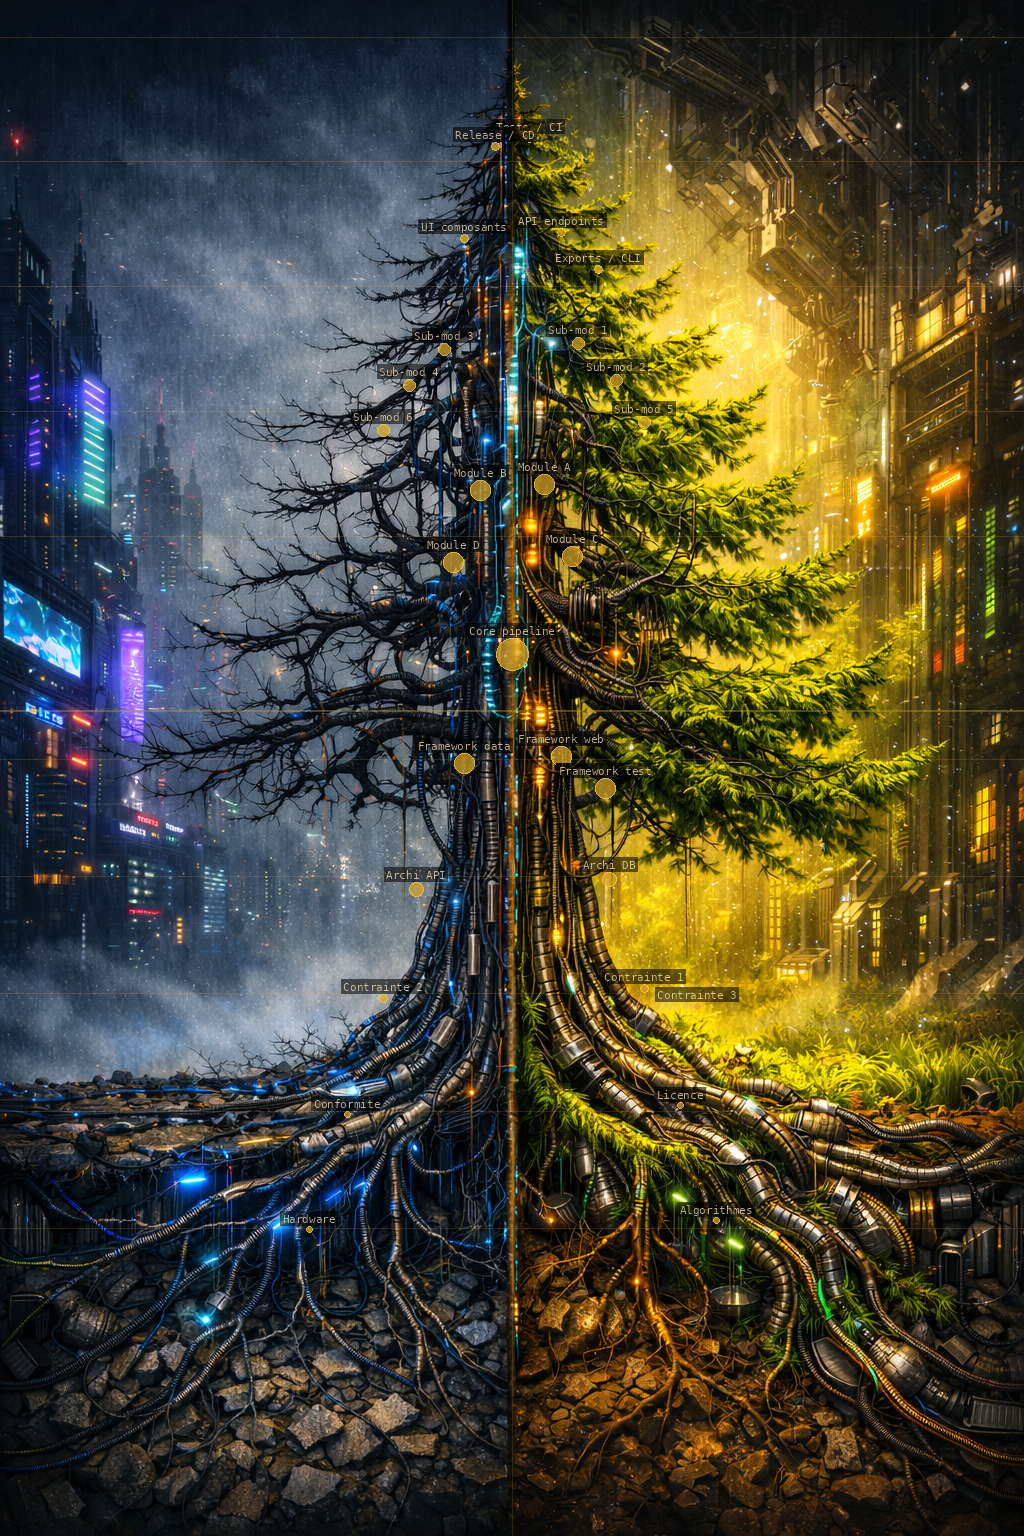
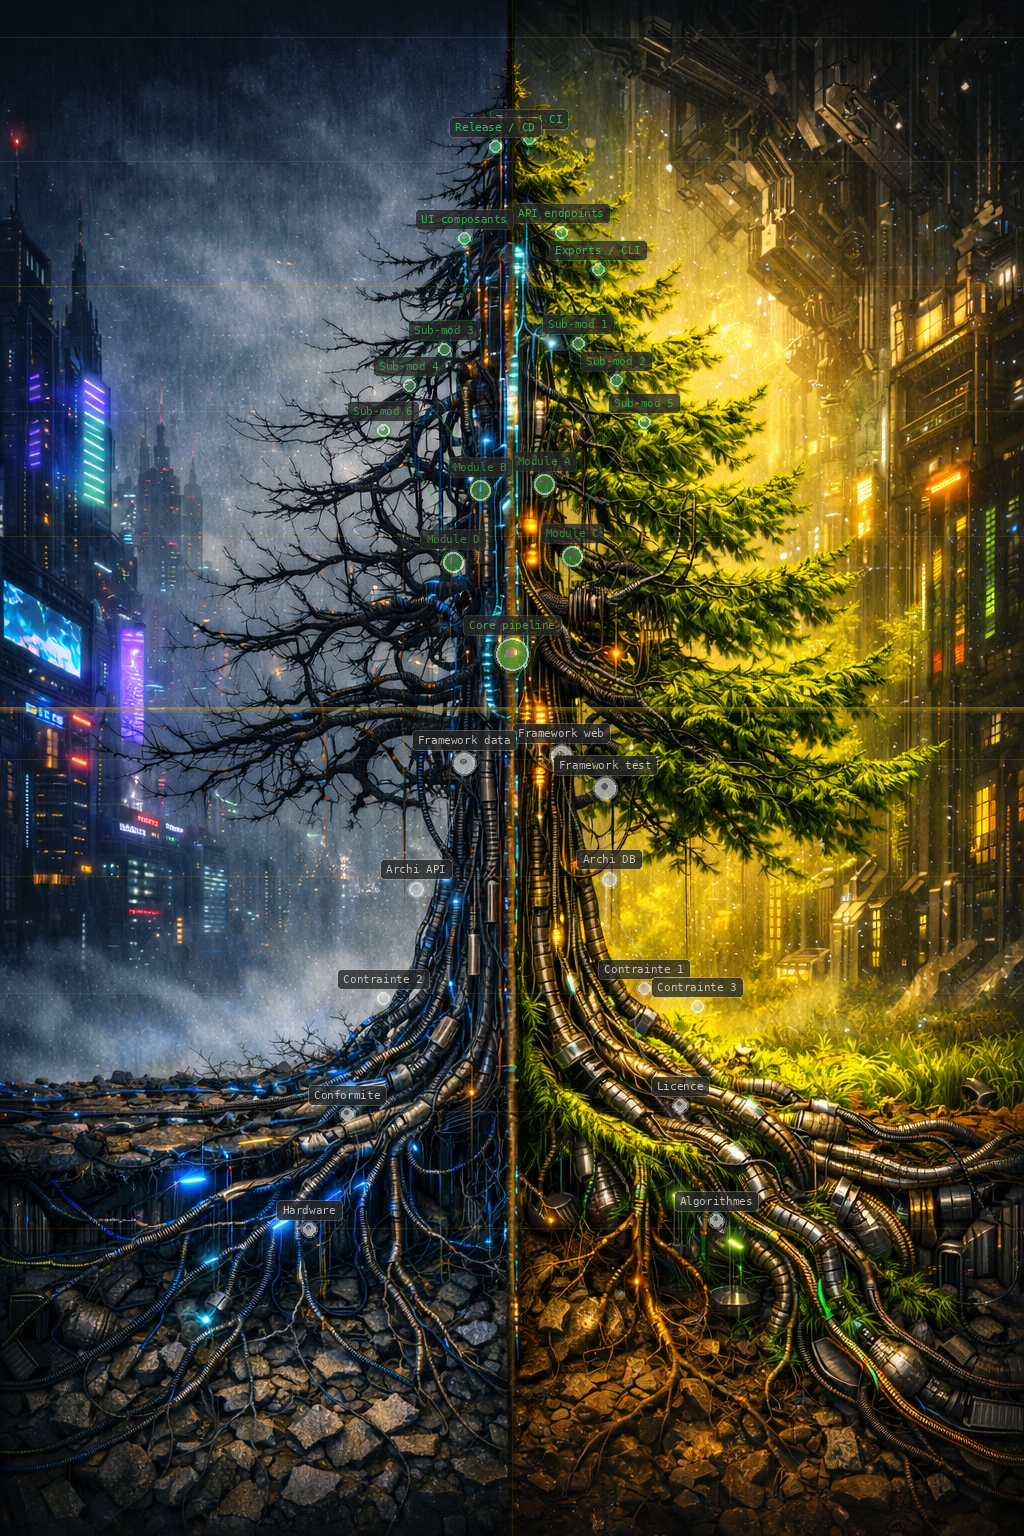
✨ UX upgrade squelettes — glow rings, label cards, contrast 3:1+
Applique les regles de infernal-wheel/ux_resources/DESIGN_TREE.md:
- Focus ring: outline 2px + box-shadow glow 6px (WCAG 2.4.13)
- Dark mode elevation: bg #121212, labels #272727 (Material)
- Contraste UI >= 3:1 (WCAG 1.4.11)
- Noeuds min 8px radius avec highlight interne
- Labels en mini-cards arrondies avec border
- Couleurs semantiques par niveau (vert aerien, brun racines)
- Gradient opacity sur les connexions bezier
- Sol avec glow ambre 6px

diff --git a/gen_all_skeletons.py b/gen_all_skeletons.py
@@ -253,10 +253,57 @@ def quadratic_bezier(p0, p1, p2, steps=50):
     return pts
 
 
+def draw_glow_ring(draw, cx, cy, r, color, alpha_outer=60, alpha_mid=100, ring_w=4):
+    """Focus ring UX: outline 2px solid + box-shadow 0 0 0 4px rgba(color, 0.3)
+    Ref: infernal-wheel/ux_resources/DESIGN_TREE.md — Focus appearance 2.4.13"""
+    # Outer glow (box-shadow equivalent)
+    for i in range(ring_w, 0, -1):
+        a = int(alpha_outer * (1 - i / ring_w))
+        rr = r + ring_w + i
+        draw.ellipse([(cx-rr, cy-rr), (cx+rr, cy+rr)],
+                     fill=None, outline=(*color, a), width=1)
+    # Mid ring (outline 2px solid)
+    rr = r + 2
+    draw.ellipse([(cx-rr, cy-rr), (cx+rr, cy+rr)],
+                 fill=None, outline=(*color, alpha_mid), width=2)
+
+
+def draw_label_card(draw, text, cx, cy, r, font, color):
+    """Label en mini-card avec elevation.
+    Ref: DESIGN_TREE — Cards: border-radius 8px, box-shadow 0 1px 3px rgba(0,0,0,0.1)
+    Dark mode elevation 4dp = #272727"""
+    tw = draw.textlength(text, font=font) if hasattr(draw, 'textlength') else len(text) * 7
+    pad_h, pad_v = 6, 3
+    tx = cx - tw / 2
+    ty = cy - r - 20
+    box = [(tx - pad_h, ty - pad_v), (tx + tw + pad_h, ty + 14 + pad_v)]
+
+    # Card background: elevation 4dp #272727
+    draw.rounded_rectangle(box, radius=4, fill=(39, 39, 39, 200),
+                           outline=(*color, 80), width=1)
+    # Text: contrast >= 4.5:1 sur dark bg
+    draw.text((tx, ty), text, fill=(*color, 240), font=font)
+
+
 def gen_skeleton(family_name, fam):
-    """Genere le squelette sur fond noir."""
-    img = Image.new("RGBA", (TGT_W, TGT_H), (5, 8, 5, 255))
+    """Genere le squelette sur fond noir.
+    UX rules from infernal-wheel/ux_resources/DESIGN_TREE.md:
+    - Dark mode bg: #121212 (elevation 0dp)
+    - Contrast UI >= 3:1
+    - Focus ring: outline 2px + glow 4px
+    - Nodes min 12px radius (visibility)
+    - Labels: elevation cards avec border-radius"""
+    # BG: Dark mode elevation 0dp = #121212
+    img = Image.new("RGBA", (TGT_W, TGT_H), (18, 18, 18, 255))
     draw = ImageDraw.Draw(img)
+
+    # Font
+    try:
+        font = ImageFont.truetype("/usr/share/fonts/truetype/dejavu/DejaVuSansMono.ttf", 11)
+        font_band = ImageFont.truetype("/usr/share/fonts/truetype/dejavu/DejaVuSansMono.ttf", 9)
+    except:
+        font = ImageFont.load_default()
+        font_band = font
 
     # Scale nodes
     nodes = []
@@ -266,71 +313,108 @@ def gen_skeleton(family_name, fam):
     iPos = {n["id"]: (n["x"], n["y"]) for n in nodes}
     pw = fam["pw"]
 
-    # Ligne de sol
-    draw.line([(0, SOL_Y), (TGT_W, SOL_Y)], fill=(180, 140, 20, 180), width=2)
-
-    # Axe central
-    draw.line([(CENTER_X, 0), (CENTER_X, TGT_H)], fill=(180, 140, 20, 60), width=1)
-
-    # Bandes horizontales
+    # Bandes horizontales — elevation 1dp = #1E1E1E, subtle
     all_lks = AERIAL_LKS + UNDER_LKS
+    BAND_LABELS = {
+        "C": "CIME", "F": "FEUILLES", "b": "RAMEAUX", "B": "BRANCHES", "T": "TRONC",
+        "R-1": "R.STRUCT", "R-2": "R.PIVOT", "R-3": "RADICELLES",
+        "R-4": "POILS ABS.", "R-5": "MYCORHIZES",
+    }
     for lk in all_lks:
         by = BAND_Y[lk]
-        draw.line([(0, by), (TGT_W, by)], fill=(255, 255, 255, 30), width=1)
+        col = COLORS.get(lk.split("-")[0] if "-" in lk else lk, (100, 100, 100))
+        # Band line: contrast 3:1 vs #121212 → need at least #5a5a5a
+        draw.line([(0, by), (TGT_W, by)], fill=(*col, 35), width=1)
+        # Band label right-aligned
+        label = BAND_LABELS.get(lk, lk)
+        draw.text((TGT_W - 8 - len(label) * 6, by + 2), label,
+                  fill=(*col, 70), font=font_band, anchor="rt" if hasattr(draw, 'textlength') else None)
+
+    # Ligne de sol — gold ambre, high visibility
+    for i in range(6):
+        a = 180 - i * 25
+        draw.line([(0, SOL_Y + i - 3), (TGT_W, SOL_Y + i - 3)],
+                  fill=(200, 160, 30, max(a, 20)), width=1)
+
+    # Axe central — subtle
+    draw.line([(CENTER_X, 0), (CENTER_X, TGT_H)], fill=(200, 160, 30, 30), width=1)
 
     # Tronc
     trunkTopY = fam.get("trunkTopY")
     if trunkTopY is not None:
         trunkW = pw.get("T", 0)
         if trunkW > 0:
-            tw = int(trunkW * 2.5)
+            tw = int(trunkW * 3)
+            # Tronc avec glow
+            for i in range(3, 0, -1):
+                draw.line(
+                    [(CENTER_X, sy(trunkTopY)), (CENTER_X, SOL_Y)],
+                    fill=(255, 255, 255, 20 * i), width=tw + i * 4
+                )
             draw.line(
                 [(CENTER_X, sy(trunkTopY)), (CENTER_X, SOL_Y)],
-                fill=(255, 255, 255, 120), width=tw
+                fill=(255, 255, 255, 160), width=tw
             )
 
-    # Connexions: branches vers tronc ou sol
+    # Connexions: courbes bezier avec gradient opacity
     for n in nodes:
-        nid = n["id"]
         nx, ny = n["x"], n["y"]
         lk = n["lk"]
         pid = n.get("pid")
+        col = COLORS.get(lk.split("-")[0] if "-" in lk else lk, (200, 200, 200))
 
-        # Connexion vers parent
         if pid and pid in iPos:
             px, py = iPos[pid]
-            # Courbe bezier
             midx = (nx + px) / 2
             midy = (ny + py) / 2
             cp = (midx + (CENTER_X - midx) * 0.3, midy)
-            pts = quadratic_bezier((nx, ny), cp, (px, py), steps=40)
-            w = max(1, int(pw.get(lk, 1) * 1.2))
+            pts = quadratic_bezier((nx, ny), cp, (px, py), steps=50)
+            w = max(2, int(pw.get(lk, 1) * 1.5))
             for i in range(len(pts)-1):
-                draw.line([pts[i], pts[i+1]], fill=(255, 255, 255, 80), width=w)
+                t = i / len(pts)
+                a = int(60 + 80 * (1 - abs(t - 0.5) * 2))
+                draw.line([pts[i], pts[i+1]], fill=(*col, a), width=w)
         else:
-            # Branches/tiges vers le centre (sol ou tronc)
             if lk in ("B", "T") or (lk.startswith("R") and not pid):
                 target_y = SOL_Y
                 target_x = CENTER_X
                 cp = ((nx + target_x) / 2, (ny + target_y) / 2)
-                pts = quadratic_bezier((nx, ny), cp, (target_x, target_y), steps=40)
-                w = max(1, int(pw.get(lk, 1) * 1.5))
+                pts = quadratic_bezier((nx, ny), cp, (target_x, target_y), steps=50)
+                w = max(2, int(pw.get(lk, 1) * 1.8))
                 for i in range(len(pts)-1):
-                    draw.line([pts[i], pts[i+1]], fill=(255, 255, 255, 60), width=w)
+                    t = i / len(pts)
+                    a = int(40 + 60 * (1 - t))
+                    draw.line([pts[i], pts[i+1]], fill=(*col, a), width=w)
 
-    # Noeuds
+    # Noeuds — min 8px radius, glow ring, label card
     for n in nodes:
         nx, ny = n["x"], n["y"]
         lk = n["lk"]
-        r = max(4, int(pw.get(lk, 1) * 5))
-        col = COLORS.get(lk.split("-")[0] if "-" in lk else lk, (255, 255, 255))
-        draw.ellipse([(nx-r, ny-r), (nx+r, ny+r)], fill=(255, 255, 255, 220))
+        col = COLORS.get(lk.split("-")[0] if "-" in lk else lk, (200, 200, 200))
+        r = max(8, int(pw.get(lk, 1) * 5))
+
+        # Glow ring (UX focus pattern)
+        draw_glow_ring(draw, nx, ny, r, col, alpha_outer=50, alpha_mid=120, ring_w=6)
+
+        # Node fill: solid center with slight gradient feel
+        draw.ellipse([(nx-r, ny-r), (nx+r, ny+r)],
+                     fill=(*col, 220),
+                     outline=(255, 255, 255, 180), width=2)
+
+        # Inner highlight dot (premium feel)
+        hr = max(2, r // 3)
+        draw.ellipse([(nx-hr-1, ny-hr-2), (nx+hr-1, ny+hr-2)],
+                     fill=(255, 255, 255, 100))
+
+        # Label card
+        draw_label_card(draw, n["label"], nx, ny, r, font, col)
 
     return img, nodes
 
 
 def gen_overlay(family_name, fam, nodes):
-    """Plaque le squelette semi-transparent sur l'image ChatGPT."""
+    """Plaque le squelette UX sur l'image ChatGPT.
+    UX rules: glow rings, label cards elevation, contrast 3:1+"""
     raw_path = os.path.join(TEMPLATES, RAW_IMAGES.get(family_name, ""))
     if not os.path.exists(raw_path):
         print(f"    !! Image raw manquante: {raw_path}")
@@ -346,63 +430,68 @@ def gen_overlay(family_name, fam, nodes):
     pw = fam["pw"]
     iPos = {n["id"]: (n["x"], n["y"]) for n in nodes}
 
-    # Bandes
+    try:
+        font = ImageFont.truetype("/usr/share/fonts/truetype/dejavu/DejaVuSansMono.ttf", 11)
+    except:
+        font = ImageFont.load_default()
+
+    # Bandes subtiles
     all_lks = AERIAL_LKS + UNDER_LKS
     for lk in all_lks:
         by = BAND_Y[lk]
-        draw.line([(0, by), (TGT_W, by)], fill=(255, 180, 50, 40), width=1)
+        draw.line([(0, by), (TGT_W, by)], fill=(255, 180, 50, 30), width=1)
 
-    # Ligne de sol
-    draw.line([(0, SOL_Y), (TGT_W, SOL_Y)], fill=(200, 160, 30, 100), width=2)
+    # Sol — gradient glow
+    for i in range(6):
+        a = 120 - i * 18
+        draw.line([(0, SOL_Y + i - 3), (TGT_W, SOL_Y + i - 3)],
+                  fill=(200, 160, 30, max(a, 15)), width=1)
 
     # Axe central
-    draw.line([(CENTER_X, 0), (CENTER_X, TGT_H)], fill=(200, 160, 30, 40), width=1)
+    draw.line([(CENTER_X, 0), (CENTER_X, TGT_H)], fill=(200, 160, 30, 25), width=1)
 
-    # Connexions
+    # Connexions avec couleur par niveau
     for n in nodes:
         pid = n.get("pid")
+        lk = n["lk"]
+        col = COLORS.get(lk.split("-")[0] if "-" in lk else lk, (200, 200, 200))
         if pid and pid in iPos:
             nx, ny = n["x"], n["y"]
             px, py = iPos[pid]
             midx = (nx + px) / 2
             midy = (ny + py) / 2
             cp = (midx + (CENTER_X - midx) * 0.3, midy)
-            pts = quadratic_bezier((nx, ny), cp, (px, py), steps=40)
-            w = max(1, int(pw.get(n["lk"], 1) * 1.0))
+            pts = quadratic_bezier((nx, ny), cp, (px, py), steps=50)
+            w = max(2, int(pw.get(lk, 1) * 1.2))
             for i in range(len(pts)-1):
-                draw.line([pts[i], pts[i+1]], fill=(255, 255, 255, 50), width=w)
+                t = i / len(pts)
+                a = int(40 + 50 * (1 - abs(t - 0.5) * 2))
+                draw.line([pts[i], pts[i+1]], fill=(*col, a), width=w)
 
-    # Noeuds + labels
-    try:
-        font = ImageFont.truetype("/usr/share/fonts/truetype/dejavu/DejaVuSansMono.ttf", 11)
-    except:
-        font = ImageFont.load_default()
-
+    # Noeuds — glow ring + label card
     for n in nodes:
         nx, ny = n["x"], n["y"]
         lk = n["lk"]
-        r = max(3, int(pw.get(lk, 1) * 4))
+        col = COLORS.get(lk.split("-")[0] if "-" in lk else lk, (200, 200, 200))
+        r = max(6, int(pw.get(lk, 1) * 4))
 
-        # Noeud ambre
+        # Glow ring
+        draw_glow_ring(draw, nx, ny, r, col, alpha_outer=40, alpha_mid=100, ring_w=5)
+
+        # Node
         draw.ellipse(
             [(nx-r, ny-r), (nx+r, ny+r)],
-            fill=(220, 170, 40, 180),
-            outline=(255, 200, 50, 220),
-            width=1
+            fill=(*col, 200),
+            outline=(255, 255, 255, 160), width=2
         )
 
-        # Label
-        label = n["label"]
-        tw = draw.textlength(label, font=font) if hasattr(draw, 'textlength') else len(label) * 7
-        tx = nx - tw / 2
-        ty = ny - r - 14
+        # Inner highlight
+        hr = max(2, r // 3)
+        draw.ellipse([(nx-hr-1, ny-hr-2), (nx+hr-1, ny+hr-2)],
+                     fill=(255, 255, 255, 80))
 
-        # Fond label
-        draw.rectangle(
-            [(tx - 2, ty - 1), (tx + tw + 2, ty + 13)],
-            fill=(0, 0, 0, 140)
-        )
-        draw.text((tx, ty), label, fill=(220, 200, 160, 220), font=font)
+        # Label card
+        draw_label_card(draw, n["label"], nx, ny, r, font, col)
 
     # Compositer
     result = Image.alpha_composite(bg, overlay)
